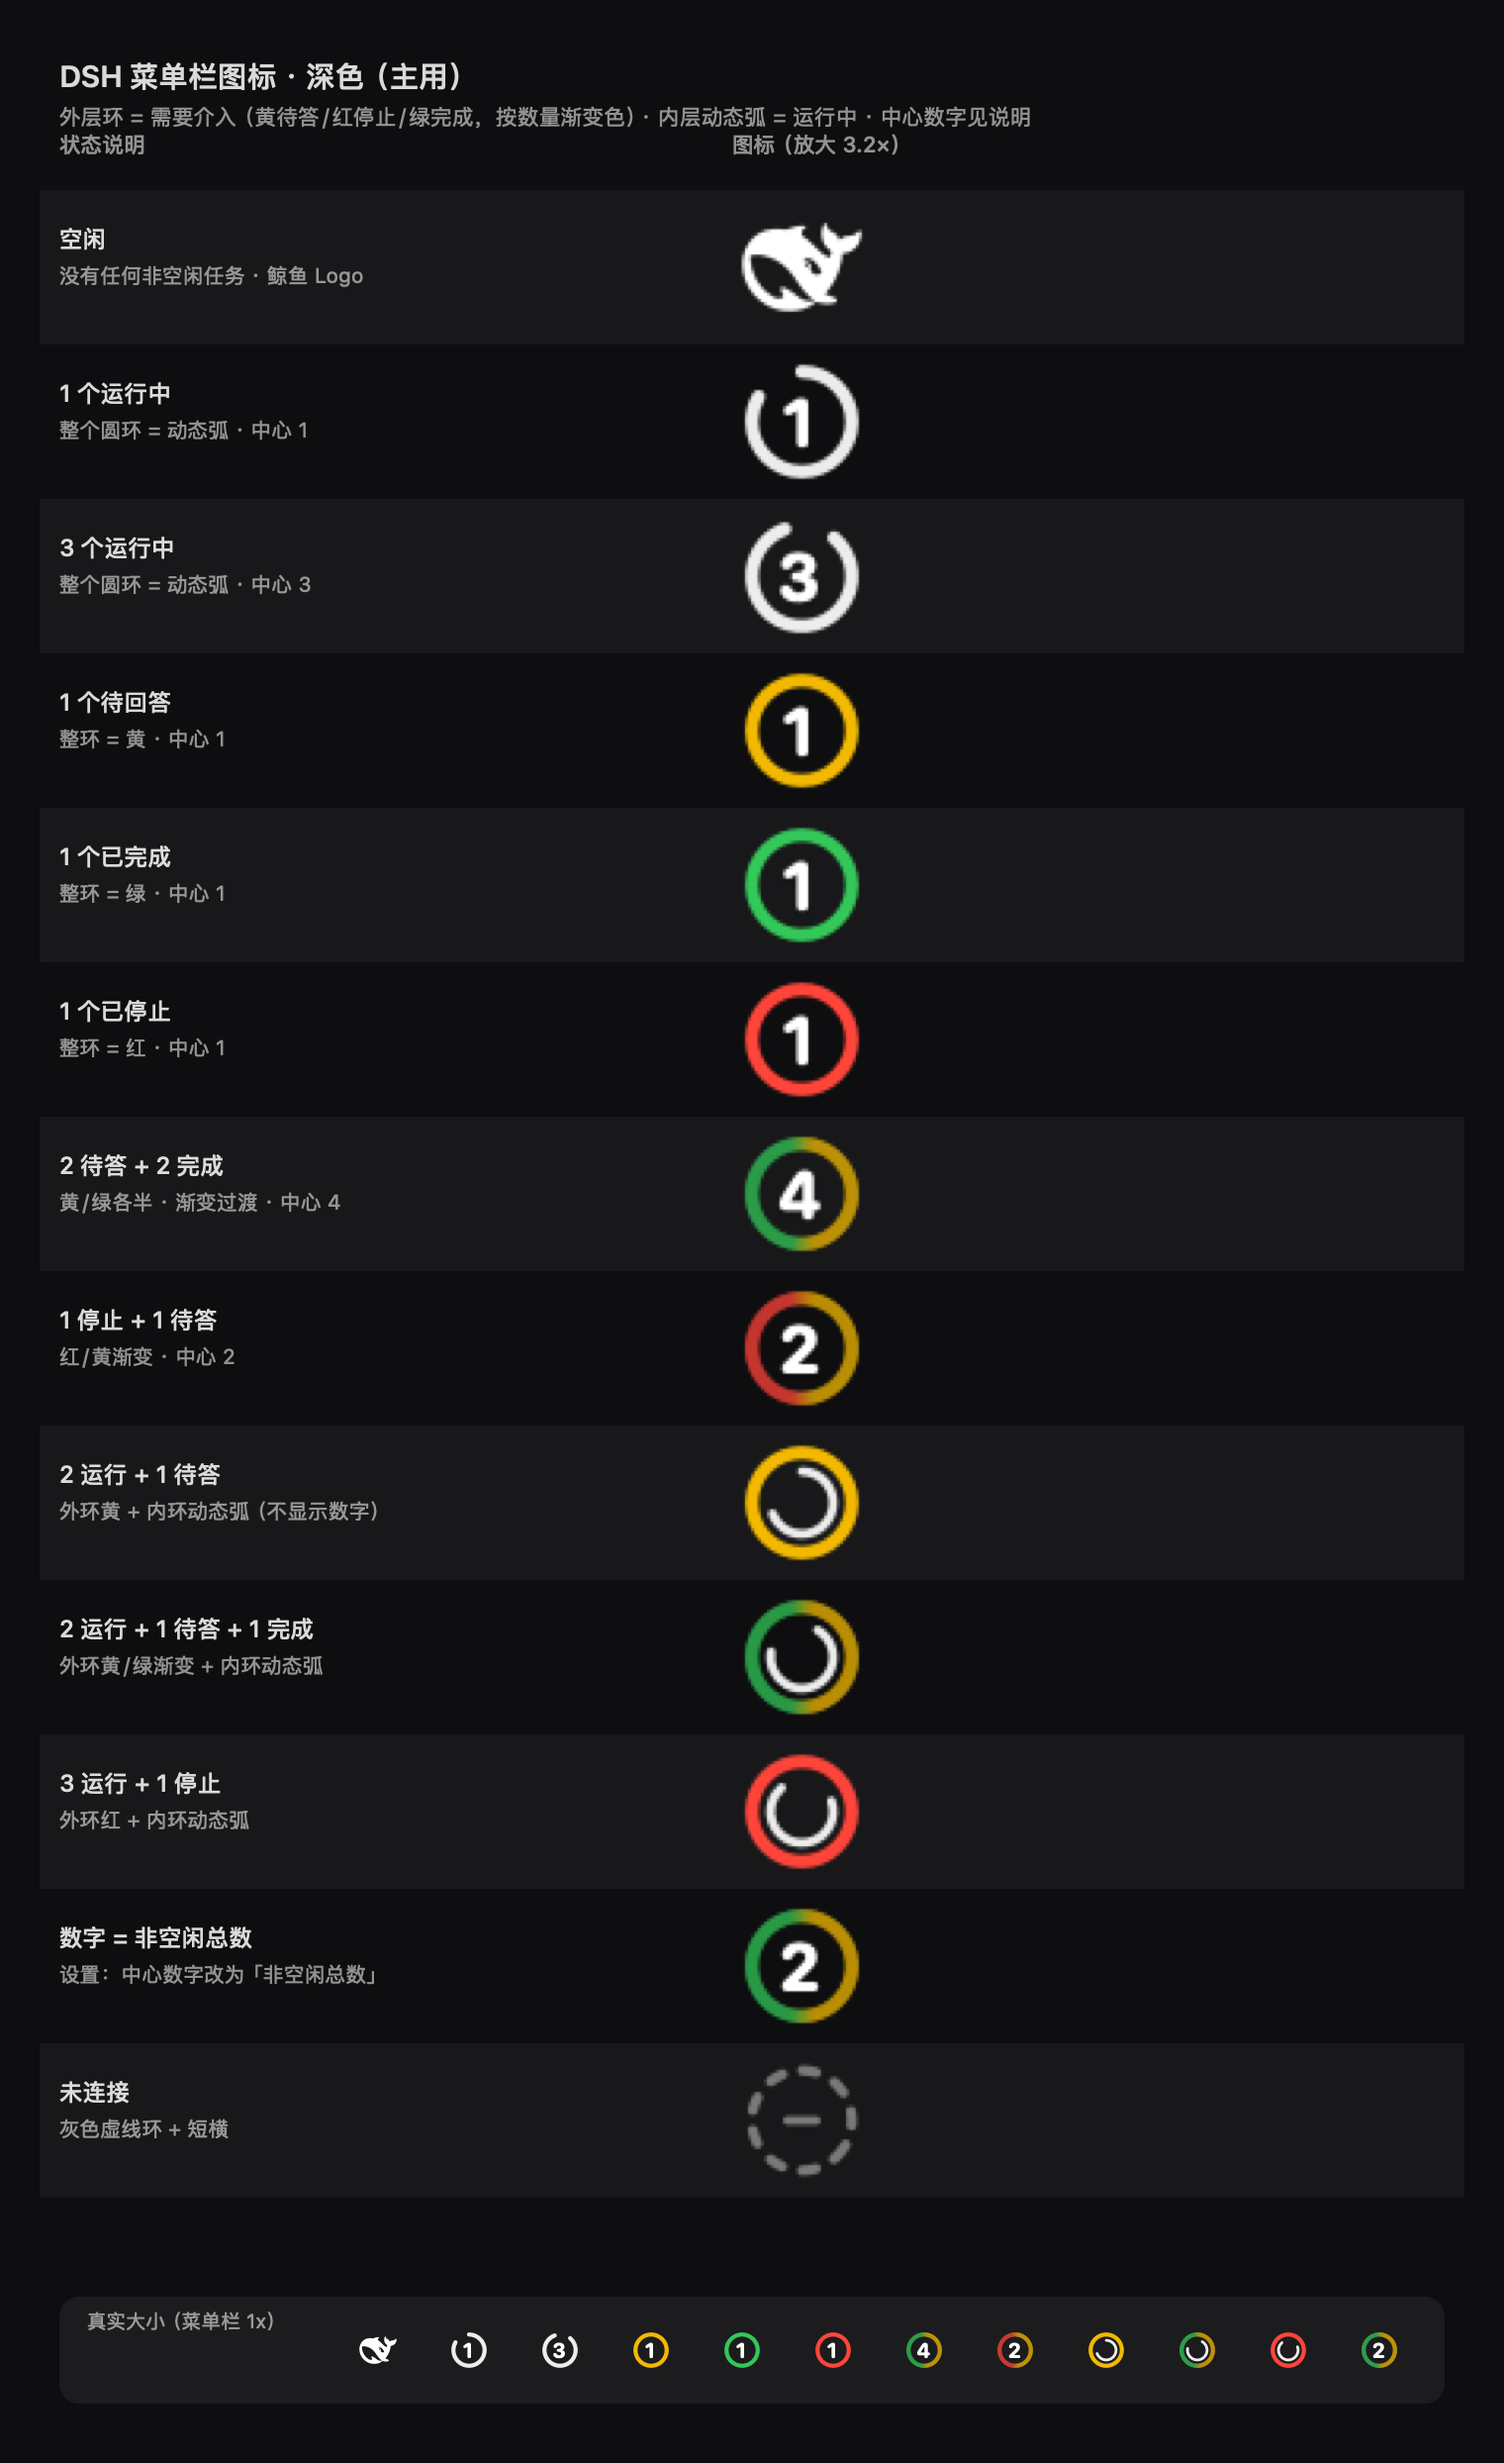
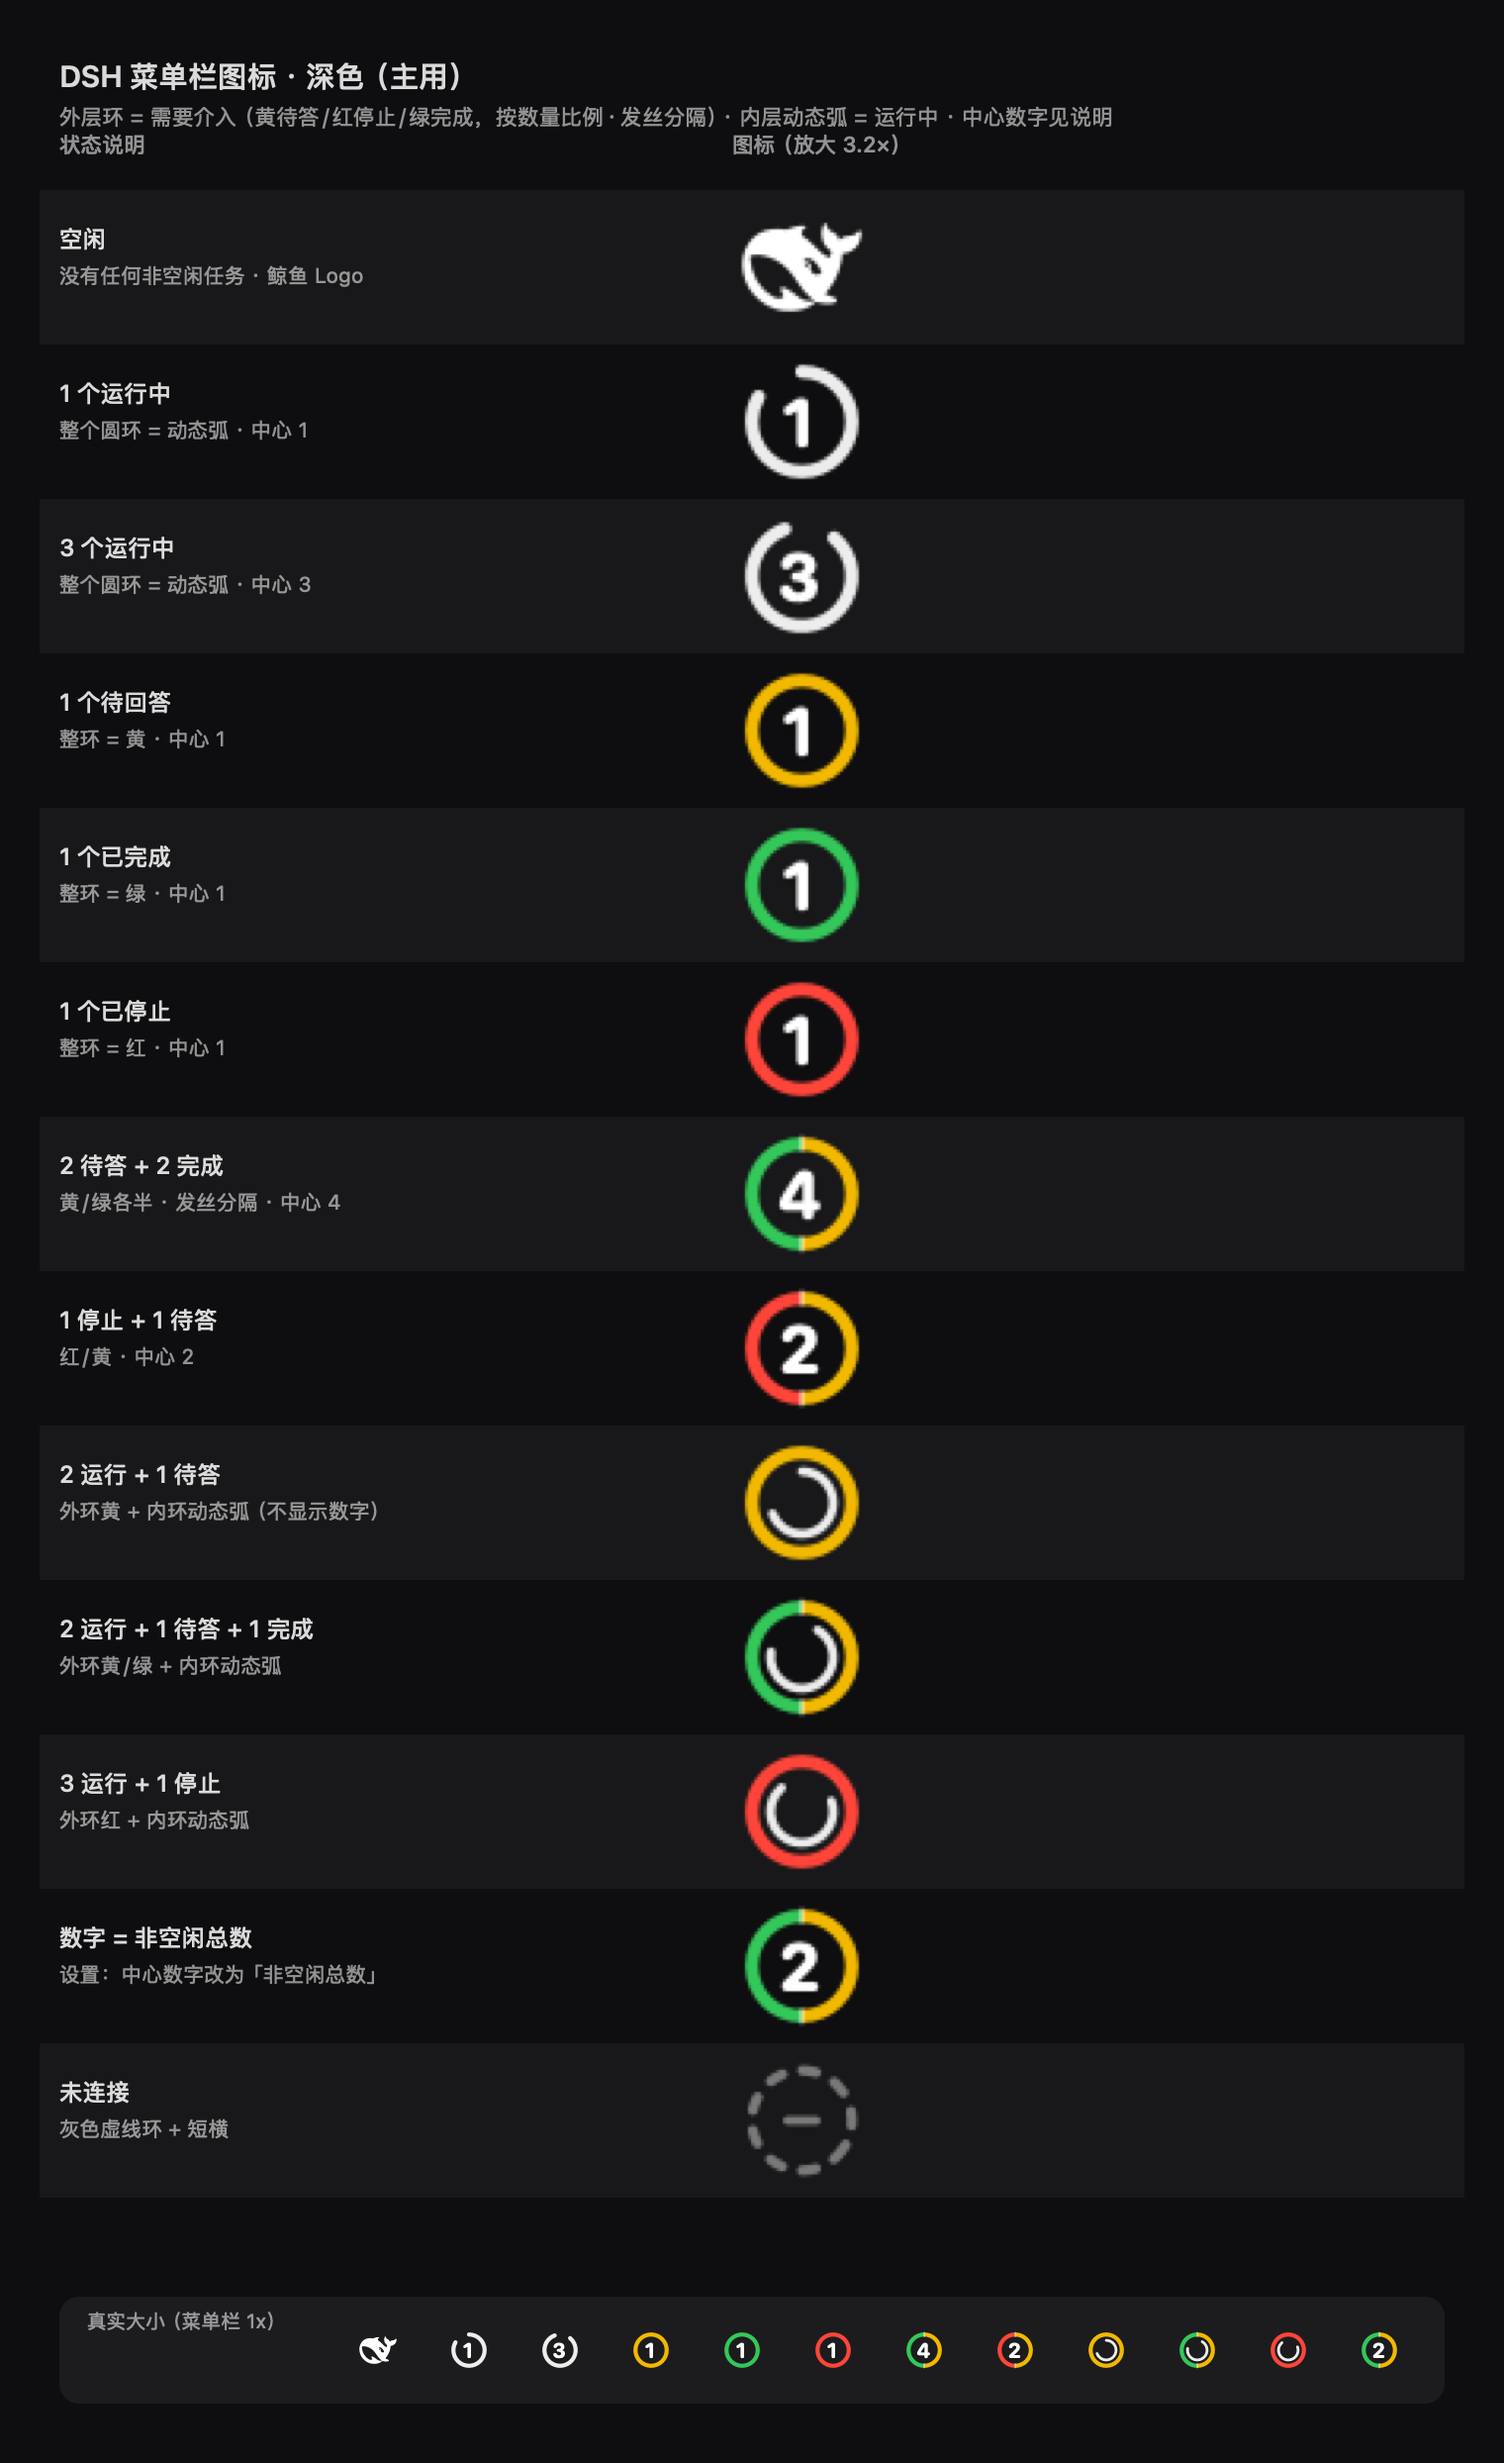
style(app): 外环改为连续色块 + 发丝分隔，去掉色相渐变

diff --git a/app/Sources/DSHStatusBar/MenuBarIconRenderer.swift b/app/Sources/DSHStatusBar/MenuBarIconRenderer.swift
@@ -53,8 +53,6 @@ enum MenuBarIconRenderer {
     private static let innerWidth: CGFloat = 1.4
     /// 动态弧跨度。
     private static let spinnerSweep: CGFloat = 250
-    /// 颜色交界处的渐变过渡角度。
-    private static let blendAngle: CGFloat = 34
 
     // MARK: 对外入口
 
@@ -94,7 +92,7 @@ enum MenuBarIconRenderer {
         let hasOuter = !segments.isEmpty
 
         if hasOuter {
-            drawGradientRing(segments)
+            drawAttentionRing(segments)
         }
 
         if model.runningCount > 0 {
@@ -185,12 +183,14 @@ enum MenuBarIconRenderer {
         return result
     }
 
-    private static func drawGradientRing(_ weighted: [(NSColor, CGFloat)]) {
+    /// 连续整环 + 颜色交界处的发丝分隔（1pt 白色 45%）。
+    /// 不做色相渐变：黄/绿/红在 22pt 上混合会发脏，改用清晰色块 + 极细分隔线。
+    private static func drawAttentionRing(_ weighted: [(NSColor, CGFloat)]) {
         let segments = angledSegments(weighted)
         guard !segments.isEmpty else { return }
 
-        // 单色：直接一个整环，不留接缝
         if segments.count == 1 {
+            segments[0].color.setStroke()
             let ring = NSBezierPath(ovalIn: NSRect(
                 x: center.x - outerRadius,
                 y: center.y - outerRadius,
@@ -198,62 +198,47 @@ enum MenuBarIconRenderer {
                 height: outerRadius * 2
             ))
             ring.lineWidth = outerWidth
-            segments[0].color.setStroke()
             ring.stroke()
             return
         }
 
-        // 多色：按 0.8° 采样逐个描小弧，交界处做渐变
-        var angle: CGFloat = 0
-        while angle < 360 {
-            let sample = angle + 0.4
-            let color = colorAt(sample, segments: segments)
-            color.setStroke()
+        // 色块：首尾相接，不留背景缝（用 butt 端点避免圆头互相咬合）
+        for segment in segments {
             let arc = NSBezierPath()
             arc.appendArc(withCenter: center, radius: outerRadius,
-                          startAngle: 90 - angle, endAngle: 90 - angle - 1.0, clockwise: true)
+                          startAngle: 90 - segment.start,
+                          endAngle: 90 - (segment.start + segment.length),
+                          clockwise: true)
             arc.lineWidth = outerWidth
             arc.lineCapStyle = .butt
+            segment.color.setStroke()
             arc.stroke()
-            angle += 0.8
         }
-    }
 
-    private static func colorAt(_ angle: CGFloat, segments: [RingSegment]) -> NSColor {
-        let half = blendAngle / 2
-        // 交界处渐变（含首尾环绕）
-        for (index, segment) in segments.enumerated() {
-            let boundary = segment.start
-            var delta = angle - boundary
-            if delta > 180 { delta -= 360 }
-            if delta < -180 { delta += 360 }
-            if abs(delta) <= half {
-                let previous = segments[(index - 1 + segments.count) % segments.count]
-                let t = smoothstep((delta + half) / blendAngle)
-                return blend(previous.color, segment.color, t)
-            }
-        }
+        // 交界：径向发丝线，制造清晰分界
         for segment in segments {
-            var local = angle - segment.start
-            if local < 0 { local += 360 }
-            if local < segment.length { return segment.color }
+            drawSeparator(at: segment.start)
         }
-        return segments[0].color
     }
 
-    private static func smoothstep(_ t: CGFloat) -> CGFloat {
-        let x = min(max(t, 0), 1)
-        return x * x * (3 - 2 * x)
+    /// 在指定角度画一条径向发丝分隔线（略微超出环宽，端点是圆的）。
+    private static func drawSeparator(at angle: CGFloat) {
+        let radians = (90 - angle) * .pi / 180
+        let direction = NSPoint(x: cos(radians), y: sin(radians))
+        let innerRadius = outerRadius - outerWidth / 2 + 0.15
+        let outerR = outerRadius + outerWidth / 2 - 0.15
+        let path = NSBezierPath()
+        path.move(to: NSPoint(x: center.x + direction.x * innerRadius,
+                              y: center.y + direction.y * innerRadius))
+        path.line(to: NSPoint(x: center.x + direction.x * outerR,
+                              y: center.y + direction.y * outerR))
+        path.lineWidth = 0.9
+        path.lineCapStyle = .round
+        NSColor.white.withAlphaComponent(0.45).setStroke()
+        path.stroke()
     }
 
-    private static func blend(_ a: NSColor, _ b: NSColor, _ t: CGFloat) -> NSColor {
-        let ca = a.usingColorSpace(.sRGB) ?? a
-        let cb = b.usingColorSpace(.sRGB) ?? b
-        return NSColor(srgbRed: ca.redComponent + (cb.redComponent - ca.redComponent) * t,
-                       green: ca.greenComponent + (cb.greenComponent - ca.greenComponent) * t,
-                       blue: ca.blueComponent + (cb.blueComponent - ca.blueComponent) * t,
-                       alpha: ca.alphaComponent + (cb.alphaComponent - ca.alphaComponent) * t)
-    }
+
 
     // MARK: 运行中动态弧
 

diff --git a/app/Sources/DSHStatusBar/PreviewRenderer.swift b/app/Sources/DSHStatusBar/PreviewRenderer.swift
@@ -49,11 +49,11 @@ enum PreviewRenderer {
         ("1 个待回答", "整环 = 黄 · 中心 1", IconModel(statuses: [.waiting])),
         ("1 个已完成", "整环 = 绿 · 中心 1", IconModel(statuses: [.completed])),
         ("1 个已停止", "整环 = 红 · 中心 1", IconModel(statuses: [.stopped])),
-        ("2 待答 + 2 完成", "黄/绿各半 · 渐变过渡 · 中心 4", IconModel(statuses: [.waiting, .waiting, .completed, .completed])),
-        ("1 停止 + 1 待答", "红/黄渐变 · 中心 2", IconModel(statuses: [.stopped, .waiting])),
+        ("2 待答 + 2 完成", "黄/绿各半 · 发丝分隔 · 中心 4", IconModel(statuses: [.waiting, .waiting, .completed, .completed])),
+        ("1 停止 + 1 待答", "红/黄 · 中心 2", IconModel(statuses: [.stopped, .waiting])),
         ("2 运行 + 1 待答", "外环黄 + 内环动态弧（不显示数字）",
          IconModel(statuses: [.waiting, .running, .running], animationPhase: 0)),
-        ("2 运行 + 1 待答 + 1 完成", "外环黄/绿渐变 + 内环动态弧",
+        ("2 运行 + 1 待答 + 1 完成", "外环黄/绿 + 内环动态弧",
          IconModel(statuses: [.waiting, .completed, .running, .running], animationPhase: 30)),
         ("3 运行 + 1 停止", "外环红 + 内环动态弧",
          IconModel(statuses: [.stopped, .running, .running, .running], animationPhase: 70)),
@@ -84,7 +84,7 @@ enum PreviewRenderer {
 
             drawText(title, font: .systemFont(ofSize: 15, weight: .semibold), color: .labelColor,
                      at: NSPoint(x: margin, y: height - margin - 18))
-            drawText("外层环 = 需要介入（黄待答/红停止/绿完成，按数量渐变色）· 内层动态弧 = 运行中 · 中心数字见说明",
+            drawText("外层环 = 需要介入（黄待答/红停止/绿完成，按数量比例·发丝分隔）· 内层动态弧 = 运行中 · 中心数字见说明",
                      font: .systemFont(ofSize: 11), color: secondary,
                      at: NSPoint(x: margin, y: height - margin - 36))
 

diff --git a/docs/app-design.md b/docs/app-design.md
@@ -1,7 +1,7 @@
 # App 设计规范（v4 · 鲸鱼 + 双层环）
 
 > 实现进度（2026-11-03）：**P0 已实现**（`app/`），预览见 `docs/previews/`。
-> v4 变更：颜色只代表「需要你介入」——外层环合并同种状态、按数量比例渐变过渡；
+> v4 变更：颜色只代表「需要你介入」——外层环合并同种状态、按数量比例分成色块；
 > 「运行中」改为内层中性色动态弧；完全空闲仍显示 DeepSeek 鲸鱼 Logo。
 > Logo 资源取自 DSH 前端 `FISH_LOGO_PATH`（viewBox 23.16×17.04）。
 
@@ -37,7 +37,7 @@
 | 情况 | 圆环 | 中心 |
 | --- | --- | --- |
 | 空闲（没有任何非空闲任务） | 无环，纯白鲸鱼（浅色模式近黑） | 无 |
-| 有需要介入的任务 | 外层渐变环（同色合并、比例分段、交界 34° 渐变） | 关注数 |
+| 有需要介入的任务 | 外层色块环（同色合并、按数量比例、交界 0.9pt 发丝分隔） | 关注数 |
 | 只有运行中 | 外层动态旋转弧（中性色，300° 弧，1.8s/圈） | 运行数 |
 | 两者都有 | 外层渐变环 + 内层动态弧（半径 4.95、宽 1.4） | 不显示数字 |
 | 未连接 | 灰色虚线环 | 短横 |
@@ -90,7 +90,9 @@
 - **配色**：`Theme.swift` 统一系统强调色——待回答 `#F2B900`、运行中 `#0A84FF`、
   已完成 `#34C759`、已停止系统红；未连接中性灰。
 - **分隔线**：1px、约 7% 前景色；hover 仅 4–6% 前景色。
-- **图标**：外环圆头端点、无缺口（渐变环连续）；动态弧圆头端点；未连接为灰色虚线环 + 短横。
+- **图标**：外环连续无缝（butt 端点首尾相接），颜色交界处叠 0.9pt 白色 45% 径向发丝线；
+  动态弧圆头端点；未连接为灰色虚线环 + 短横。
+- 说明：22pt 尺寸下黄/绿/红色相渐变会发脏（互补色混合），因此**不做色相渐变**，改用清晰色块 + 发丝分隔。
 
 ## 3.1 设置页（NSWindow + SwiftUI）
 

diff --git a/README.md b/README.md
@@ -10,7 +10,7 @@
 - **App 图标**：与菜单栏空闲态同款的鲸鱼 glyph，**透明底、无圆角方块、主色 `#416EFB`**
   （构建时由 `WhaleLogo` 生成 `.icns`），避免和 DeepSeek Harness 官方图标混淆
 - **P0 已完成**：Swift 菜单栏 App 可用——**鲸鱼 + 双层环图标（v4）**：
-  - 外层彩色环 = 只需要你介入的任务（待回答黄 / 已停止红 / 已完成绿），同色合并、按数量比例渐变过渡；
+  - 外层彩色环 = 只需要你介入的任务（待回答黄 / 已停止红 / 已完成绿），同色合并、按数量比例分段、交界发丝分隔；
   - 内层动态弧 = 有任务正在运行（中性色缓慢旋转，不再和蓝色壁纸撞色）；
   - 只有运行中时，动态弧直接用外环大小 + 中心显示运行数；双层时只显示两个环、不显示数字；
   - 完全空闲时显示 DeepSeek 鲸鱼 Logo。、面板、**设置页**（自定义显示状态 / 隐藏项目 / 中心数字 / 段数上限 / 通知）、

diff --git a/docs/previews/README.md b/docs/previews/README.md
@@ -17,7 +17,7 @@
 | `quit-confirm-dark.png` | 退出二次确认弹窗（深色，默认焦点在「取消」） |
 | `p1-devhost-panel.png` / `p1-devhost-menubar.png` | P1 联调截图：`plugin/test/dev-host.mjs` 假 Host + 真实 App 走完整桥协议（SSE/状态合并）；数据为开发演示数据，非真实 DSH |
 
-图标语义（v4 双层环）：空闲 = 鲸鱼；外层彩色渐变环 = 需要介入（待回答黄 / 已停止红 / 已完成绿，按数量比例）；
+图标语义（v4 双层环）：空闲 = 鲸鱼；外层彩色环 = 需要介入（待回答黄 / 已停止红 / 已完成绿，按数量比例）；
 内层动态弧 = 运行中；只有运行中时动态弧用外环大小 + 中心运行数；双层时不显示数字。
 
 配色与面板/设置页结构参考 [Status Trio](https://github.com/lingyired/status-trio)（Apache-2.0）。
